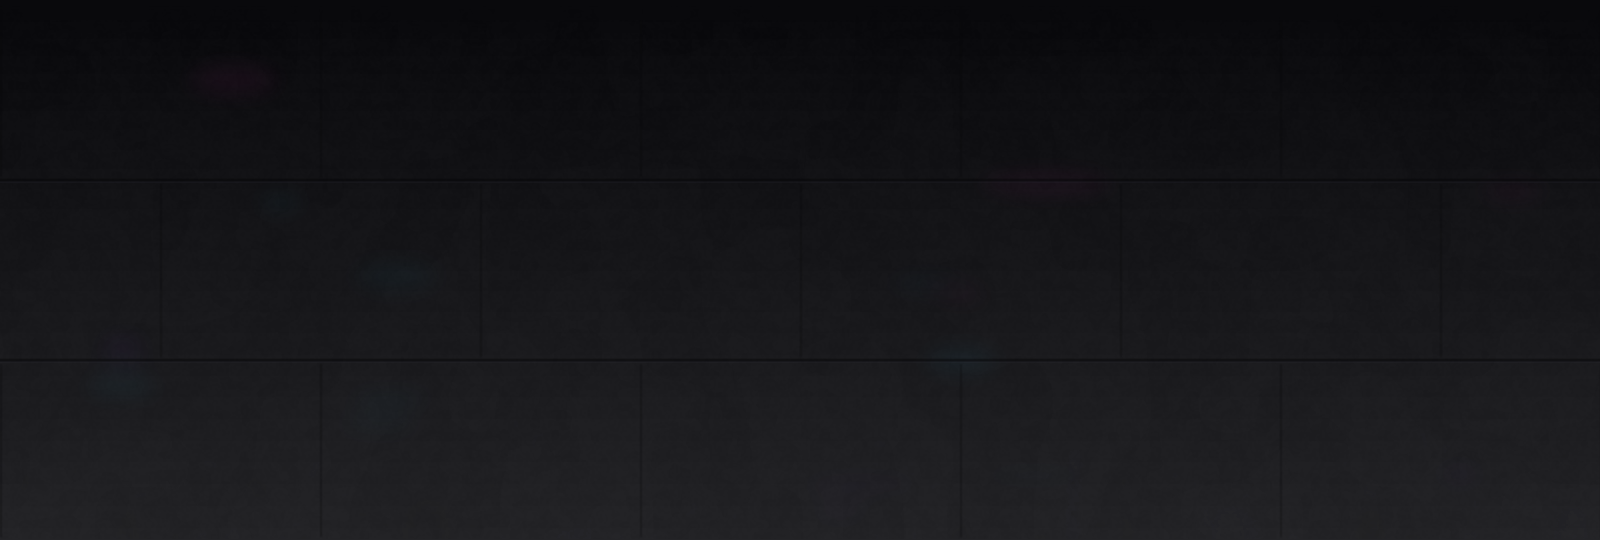
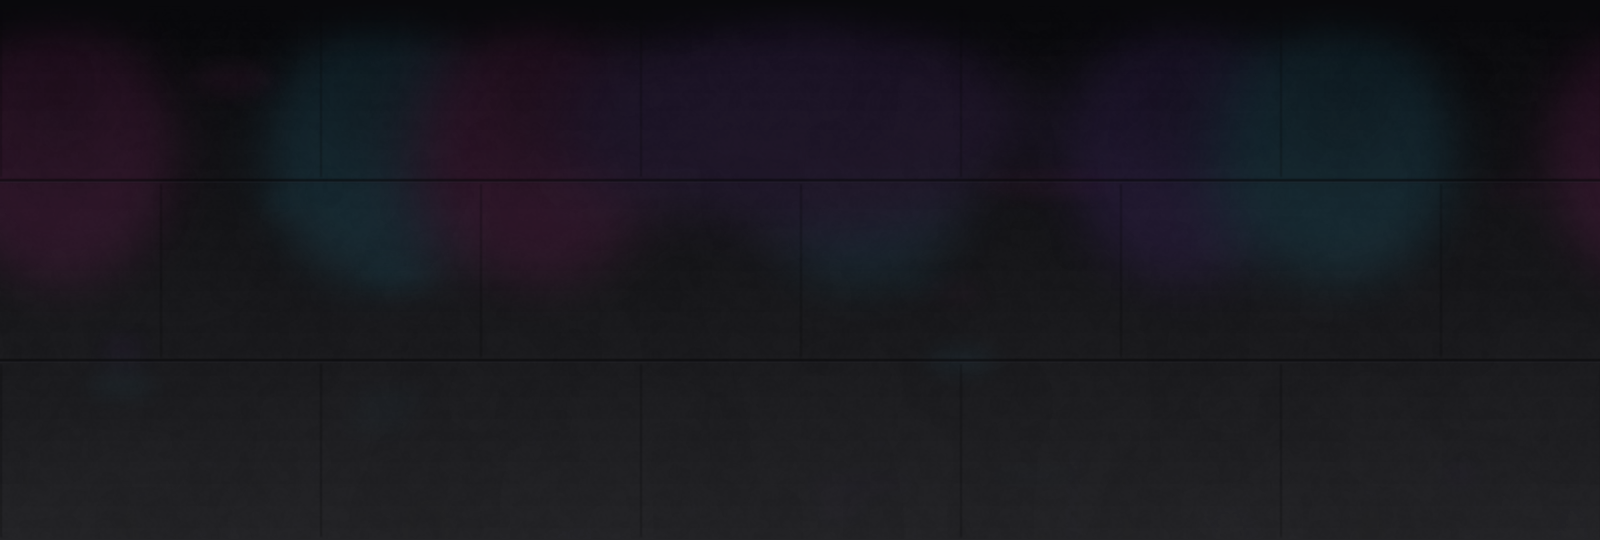
feat: enhance concert

diff --git a/tools/gen-concert-assets.py b/tools/gen-concert-assets.py
@@ -85,6 +85,20 @@ def make_road():
     wrapped(draw_refl, refl)
     road = over(road, wrap_blur(refl, 12.0))
 
+    # coloured light spill from the rig: broad pools, kept low so shadows and sprites read
+    spill = Image.new("RGBA", (W, ROAD_H), (0, 0, 0, 0))
+
+    def draw_spill(d, dx):
+        for i, x in enumerate(LAMP_XS):
+            if i in LIT:
+                col = ACCENTS[i % 3]
+                d.ellipse([x + dx - 130, 10, x + dx + 130, 300], fill=col + (30,))
+                d.ellipse([x + dx - 60, 30, x + dx + 60, 160], fill=col + (22,))
+        d.ellipse([560 + dx, 0, 1040 + dx, 240], fill=(150, 70, 220, 26))
+
+    wrapped(draw_spill, spill)
+    road = over(road, wrap_blur(spill, 28.0))
+
     # faint dark seams between rows plus staggered panel joints (stage deck boards)
     seams = Image.new("RGBA", (W, ROAD_H), (0, 0, 0, 0))
 
@@ -140,13 +154,14 @@ def lamp_heads(d, dx):
         d.rectangle([x - 12, y + 10, x + 12, y + 30], fill=(30, 30, 38, 255))
         d.rectangle([x - 12, y + 10, x + 12, y + 12], fill=(70, 70, 88, 255))
         lens = col if i in LIT else (40, 40, 48)
-        d.ellipse([x - 8, y + 26, x + 8, y + 34], fill=lens + (255,))
+        d.ellipse([x - 11, y + 26, x + 11, y + 36], fill=(lerp(lens, (255, 255, 255), 0.35) if i in LIT else lens) + (255,))
 
 
 def lamp_glow(d, dx):
     for i, (x, col, s) in enumerate(LAMPS):
         if i in LIT:
-            d.ellipse([x + dx - 34, TRUSS_Y + 18, x + dx + 34, TRUSS_Y + 56], fill=col + (int(120 * s),))
+            d.ellipse([x + dx - 60, TRUSS_Y + 4, x + dx + 60, TRUSS_Y + 76], fill=col + (int(110 * s),))
+            d.ellipse([x + dx - 22, TRUSS_Y + 24, x + dx + 22, TRUSS_Y + 48], fill=lerp(col, (255, 255, 255), 0.5) + (200,))
 
 
 def beams(d, dx):
@@ -156,7 +171,7 @@ def beams(d, dx):
             tilt = (i % 3 - 1) * 60
             d.polygon([(x + dx - 6, TRUSS_Y + 50), (x + dx + 6, TRUSS_Y + 50),
                        (x + dx + tilt + 70, 300), (x + dx + tilt - 70, 300)],
-                      fill=col + (int(22 * s),))
+                      fill=col + (int(34 * s),))
 
 
 def speaker_stack(d, dx, x0, w, tiers, base_y):
@@ -187,13 +202,13 @@ def led_wall(img):
     for i in range(n):
         x = x0 + 4 + i * (bw + gap)
         t = i / (n - 1)
-        col = lerp(CYAN, MAGENTA, t)
+        col = lerp((70, 230, 255), (255, 60, 200), t)
         env = 0.35 + 0.65 * math.sin(math.pi * t) ** 1.5      # louder in the middle
         h = int((y1 - y0 - 16) * env * r.uniform(0.45, 1.0))
         for k in range(0, h, 7):                                # LED segments
             y = y1 - 6 - k
             dim = 0.55 + 0.45 * (1 - k / max(h, 1))
-            d.rectangle([x, y - 5, x + bw, y], fill=lerp((6, 6, 12), col, 0.7 * dim) + (255,))
+            d.rectangle([x, y - 5, x + bw, y], fill=lerp((6, 6, 12), col, 1.0 * dim) + (255,))
         d.rectangle([x, y1 - 6 - h - 6, x + bw, y1 - 6 - h - 3], fill=col + (255,))  # peak cap
     for y in range(y0, y1, 4):                                  # pixel-grid scanlines
         d.line([(x0, y), (x1, y)], fill=(0, 0, 0, 70))
@@ -208,7 +223,7 @@ def haze(d, dx):
                   fill=r.choice(((70, 40, 110), (40, 60, 100), (90, 40, 90))) + (r.randrange(10, 22),))
 
 
-def crowd(d, dx):
+def crowd(d, dx, color=CROWD, dy=0):
     """Head-and-shoulders silhouettes, two ranks; some with raised arms."""
     for rank, (base, hr, seed, a) in enumerate(((BG_H + 12, 13, 6404, 255), (BG_H + 30, 17, 6405, 255))):
         r = random.Random(seed)
@@ -216,17 +231,17 @@ def crowd(d, dx):
         for k in range(n):  # evenly spread slots, so the pattern closes on the tile seam
             cx = int((k + r.uniform(-0.2, 0.2)) * W / n) + dx
             top = base - r.randrange(46, 74) - (16 if rank == 0 else 0)
-            d.ellipse([cx - hr, top - hr, cx + hr, top + hr], fill=CROWD + (a,))
+            d.ellipse([cx - hr, top - hr + dy, cx + hr, top + hr + dy], fill=color + (a,))
             d.polygon([(cx - hr * 2.2, base), (cx - hr * 1.5, top + hr + 6), (cx - hr * 0.6, top + hr - 2),
                        (cx + hr * 0.6, top + hr - 2), (cx + hr * 1.5, top + hr + 6), (cx + hr * 2.2, base)],
-                      fill=CROWD + (a,))
+                      fill=color + (a,))
             if r.random() < 0.28:  # raised arm(s)
                 for side in ((-1,), (1,), (-1, 1))[r.randrange(3)]:
                     sx = cx + side * hr * 1.6
                     tip = (sx + side * r.randrange(4, 18), top - r.randrange(26, 52))
                     d.line([(cx + side * hr * 1.3, top + hr + 4), (sx, top + hr - 10), tip],
-                           fill=CROWD + (a,), width=7)
-                    d.ellipse([tip[0] - 6, tip[1] - 6, tip[0] + 6, tip[1] + 6], fill=CROWD + (a,))
+                           fill=color + (a,), width=7)
+                    d.ellipse([tip[0] - 6, tip[1] - 6, tip[0] + 6, tip[1] + 6], fill=color + (a,))
 
 
 def make_bg():
@@ -261,8 +276,14 @@ def make_bg():
     led_wall(led)
     bg = over(bg, led)
     screen_glow = Image.new("RGBA", (W, BG_H), (0, 0, 0, 0))
-    ImageDraw.Draw(screen_glow).rectangle([560, 96, 1040, 246], fill=(150, 60, 200, 34))
+    ImageDraw.Draw(screen_glow).rectangle([560, 96, 1040, 246], fill=(170, 70, 220, 70))
     bg = over(bg, wrap_blur(screen_glow, 26.0))
+    # wide soft bleed from the screen onto the truss and nearby speakers
+    bleed = Image.new("RGBA", (W, BG_H), (0, 0, 0, 0))
+    bd = ImageDraw.Draw(bleed)
+    bd.ellipse([380, 20, 1220, 330], fill=(150, 60, 210, 46))
+    bd.ellipse([560, 90, 1040, 250], fill=(60, 200, 255, 26))
+    bg = over(bg, wrap_blur(bleed, 34.0))
 
     layer = Image.new("RGBA", (W, BG_H), (0, 0, 0, 0))
     wrapped(lamp_heads, layer)
@@ -271,6 +292,12 @@ def make_bg():
 
     bg = over(bg, wrap_blur(glow(haze, 22.0), 8.0))
 
+    layer = Image.new("RGBA", (W, BG_H), (0, 0, 0, 0))
+    rim = Image.new("RGBA", (W, BG_H), (0, 0, 0, 0))   # stage rim light: the silhouette shifted up, tinted
+    wrapped(lambda d, dx: crowd(d, dx, (110, 60, 170), -3), rim)
+    wrapped(lambda d, dx: crowd(d, dx, (50, 130, 170), -3), layer)
+    rim = Image.blend(rim, layer, 0.5)
+    bg = over(bg, wrap_blur(rim, 0.8))
     layer = Image.new("RGBA", (W, BG_H), (0, 0, 0, 0))
     wrapped(crowd, layer)
     bg = over(bg, layer)

diff --git a/docs/image-assets.md b/docs/image-assets.md
@@ -489,9 +489,10 @@ writes `road-concert.png` and `scenery-concert.png` (same 1600x540 / 1600x360,
 crowd side: lighting truss with ten lamp heads (six lit in magenta / purple /
 cyan, faint haze cones), speaker stacks, a central LED wall with an equaliser
 pattern, drifting haze and two ranks of crowd silhouettes (some with raised
-arms) along the bottom. Top row is flat 0x020305 (`sky`), the bottom rows ease
+arms, rim-lit from the stage) along the bottom. The LED wall is bright and bleeds a soft glow onto the truss and
+speakers; lit lamp heads have large halos. Top row is flat 0x020305 (`sky`), the bottom rows ease
 into 0x09090c. The road is dark stage-floor boards with very faint coloured
-reflections; like the underground road it bakes only a faint dark seam at
+reflections and broad magenta / cyan / purple light-spill pools under the lit heads; like the underground road it bakes only a faint dark seam at
 y = 180 / 360 (no bright lane lines), top row 0x09090c, bottom row 0x242427
 (`ground`). Accents are kept dim so the runner, obstacles and DiscoLights
 beams stay readable.
